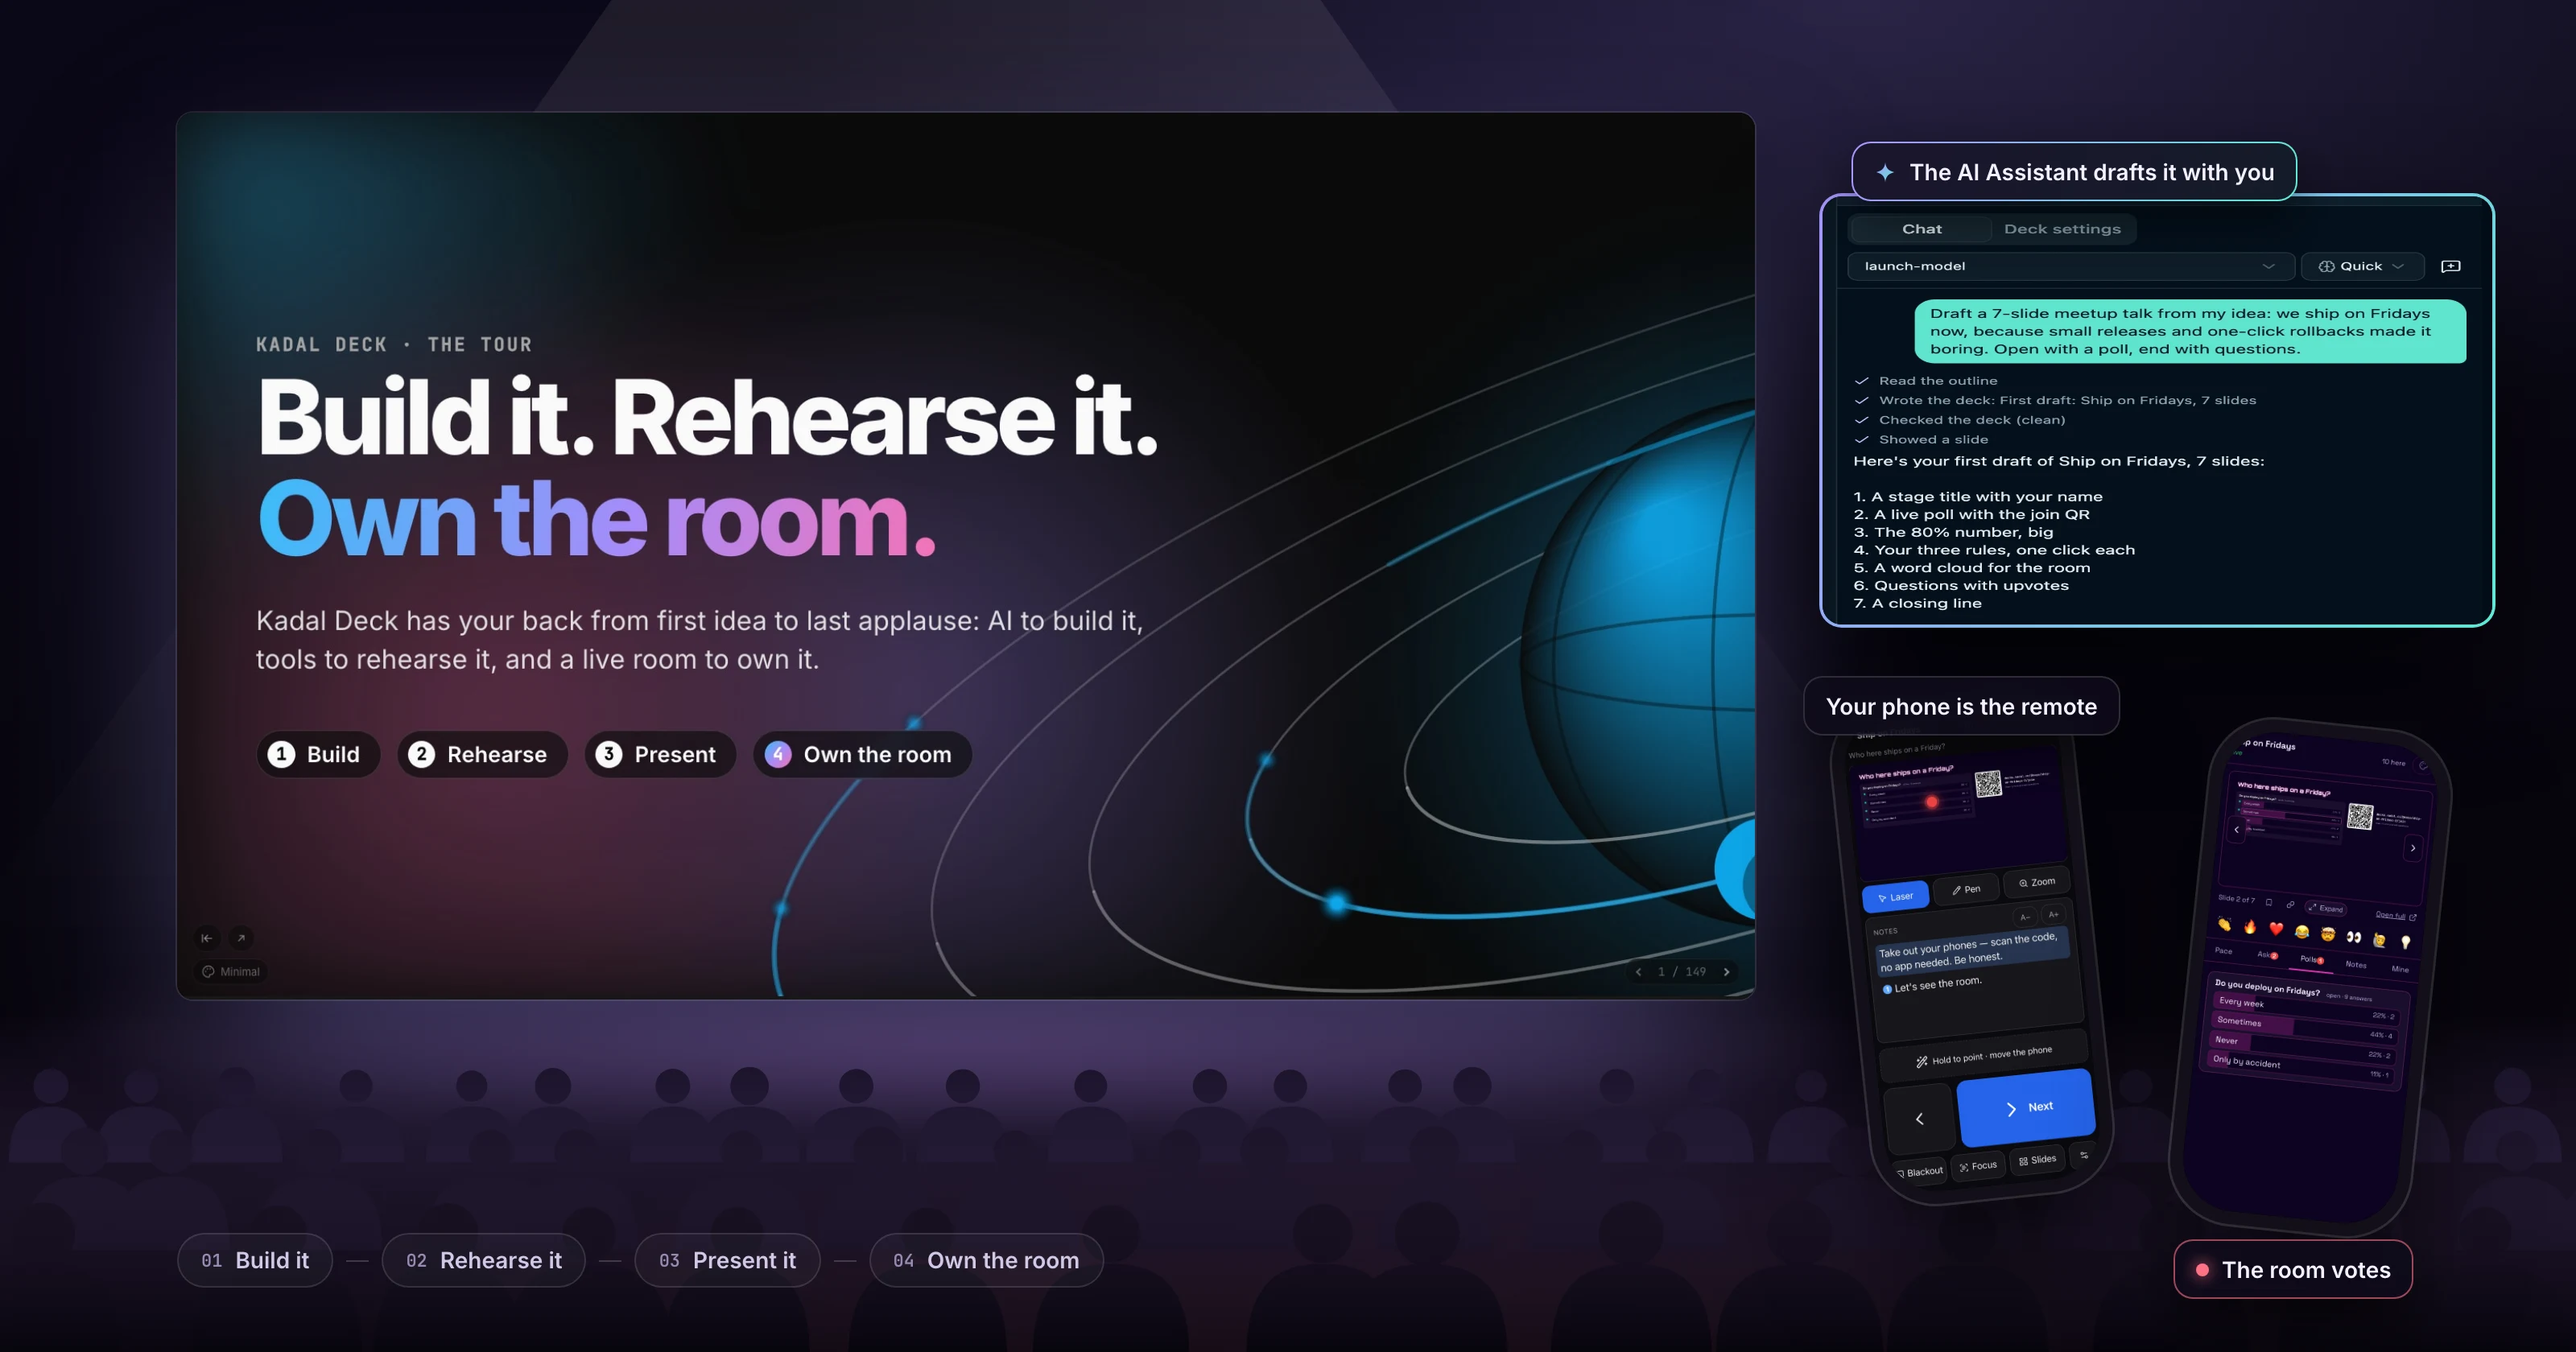
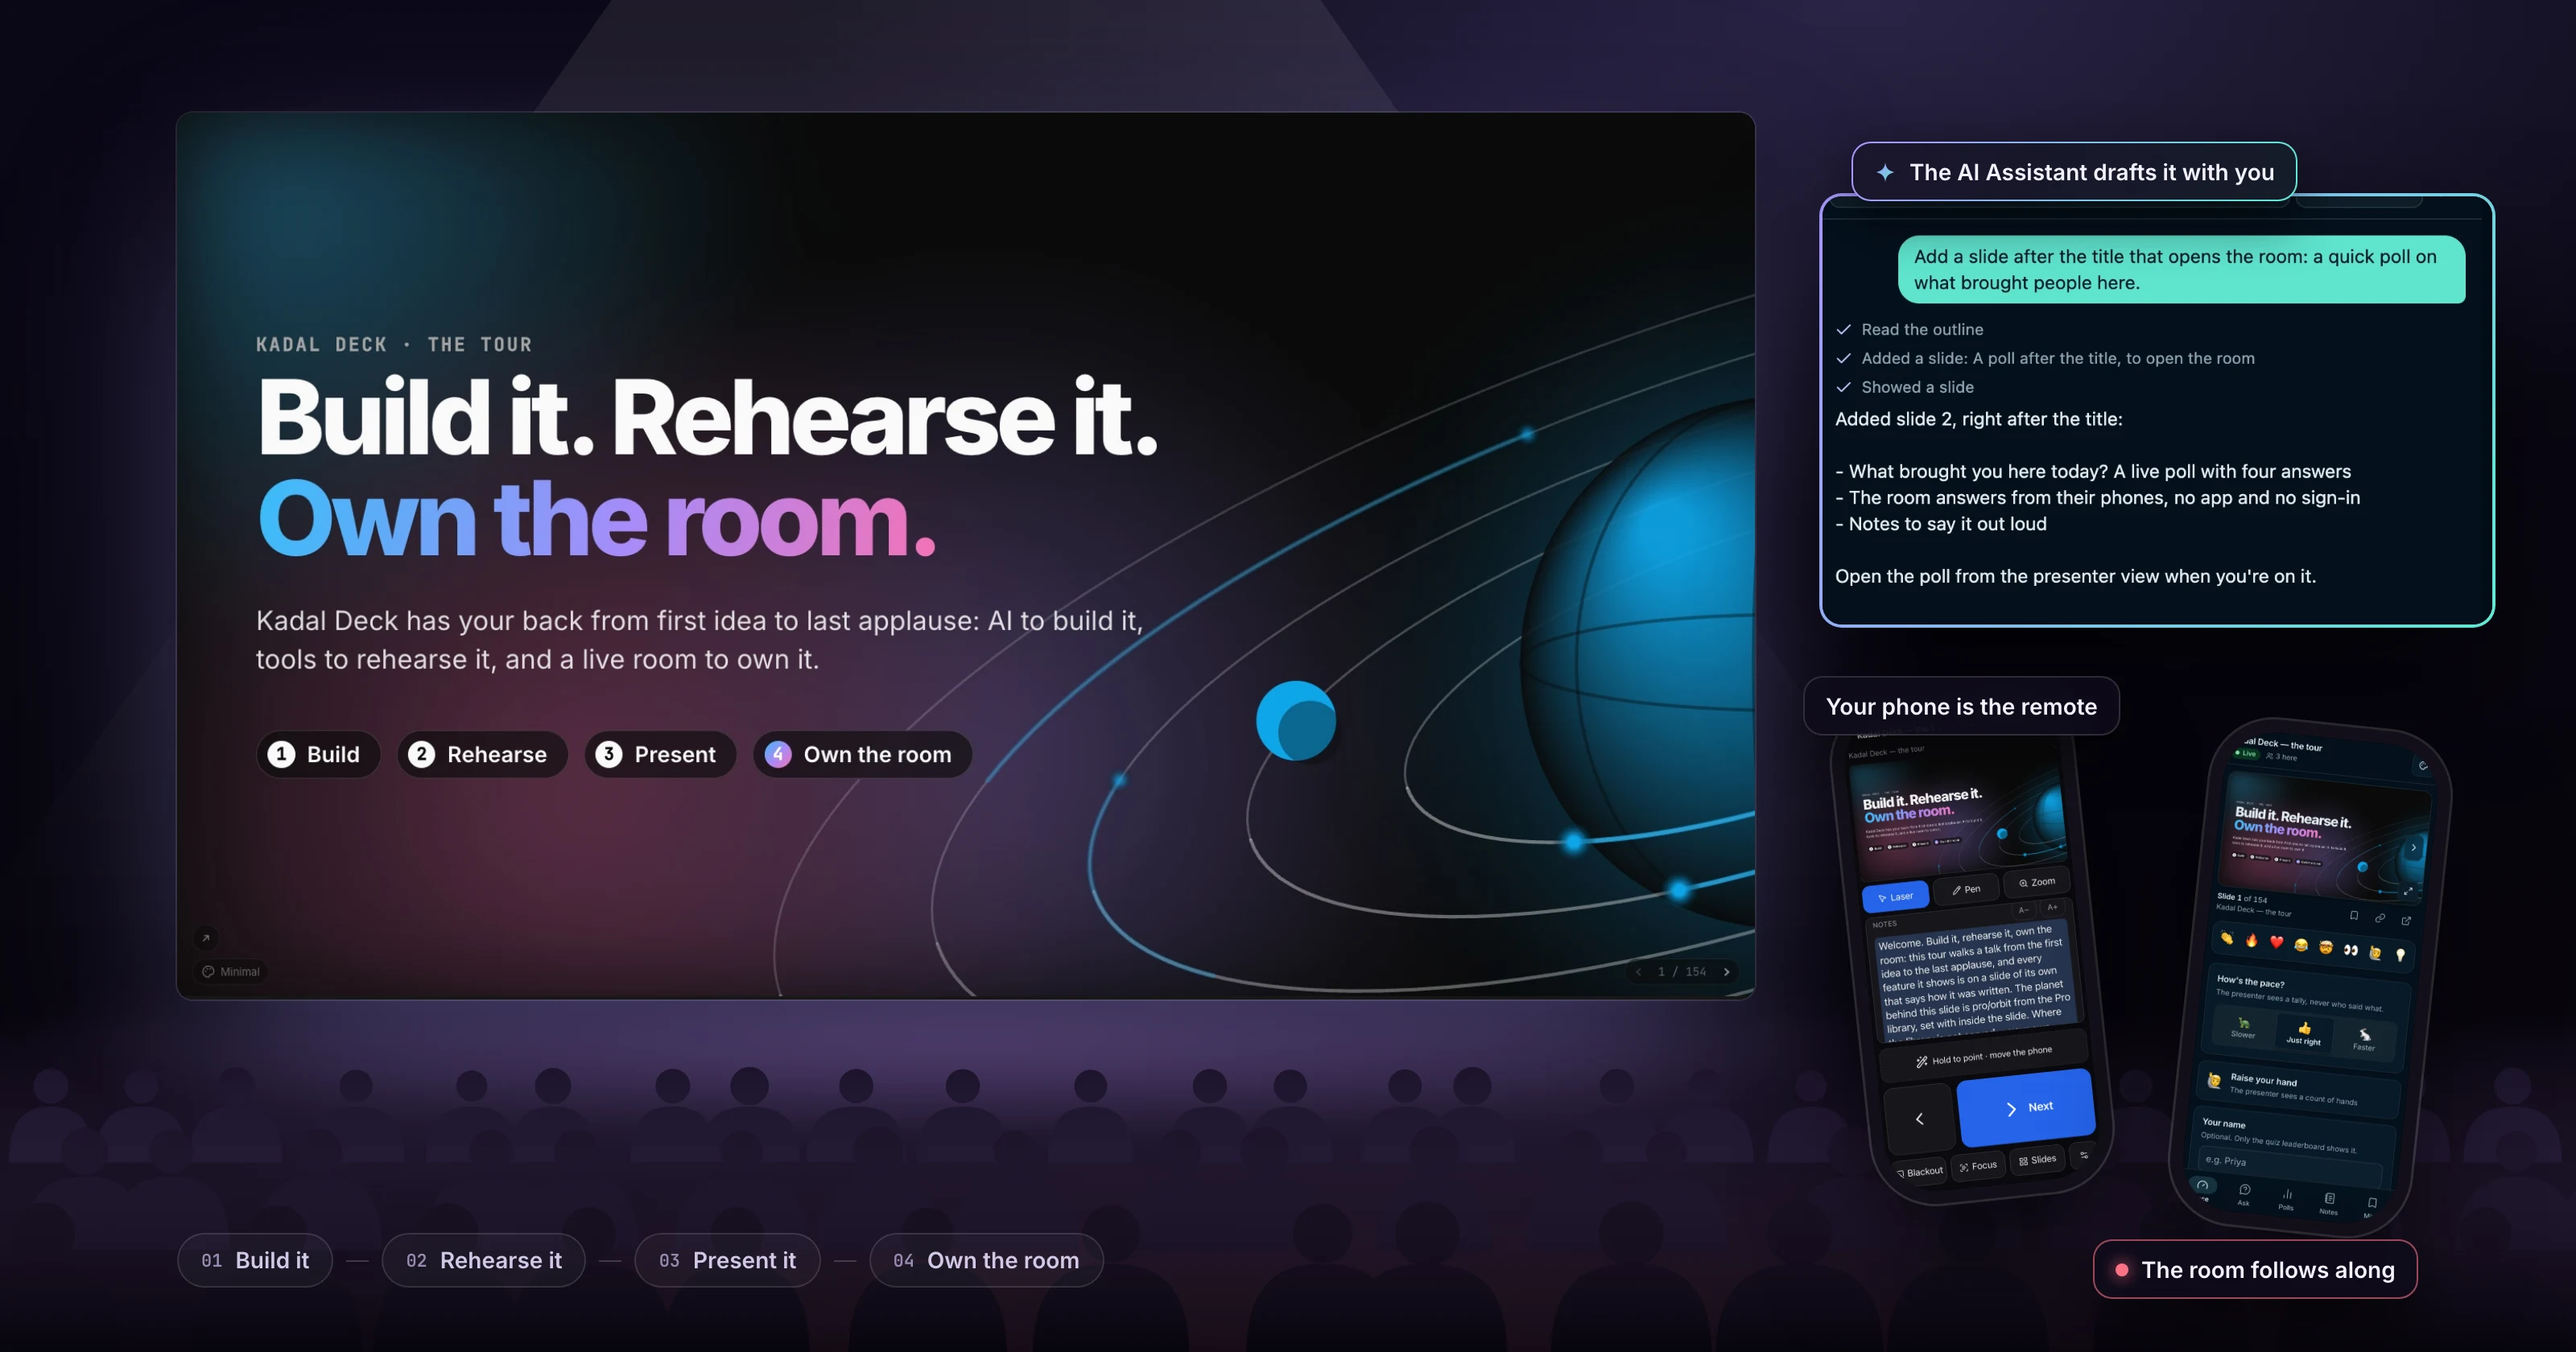
docs(readme): re-shoot the hero on the 0.7.0 tour and audience page

diff --git a/README.md b/README.md
@@ -26,7 +26,7 @@ The engine is open source, and hosting is free for public decks.
 
 <p align="center">
   <a href="https://decks.kadal.cc/@pmithunish/tour/">
-    <img src=".github/assets/hero.webp" alt="Kadal Deck on stage: the tour's title slide, Build it. Rehearse it. Own the room., on a big screen in front of an audience, a phone in the speaker's hand as the remote with a laser, and an audience phone voting in a live poll" width="100%">
+    <img src=".github/assets/hero.webp" alt="Kadal Deck on stage: the tour's title slide, Build it. Rehearse it. Own the room., on a big screen in front of an audience, the AI Assistant adding a poll slide, the speaker's phone as the remote with the notes, and an audience phone on the same slide answering a live poll" width="100%">
   </a>
 </p>
 
